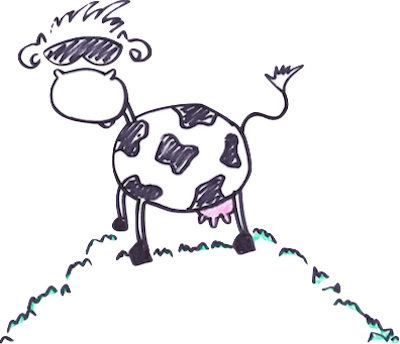
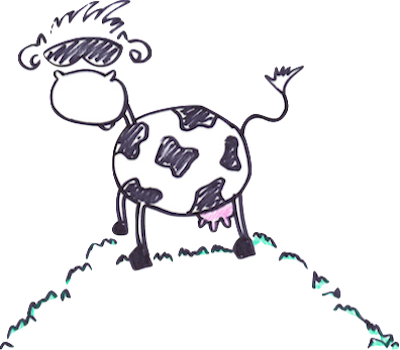
dritte Wiesenabstufung implementiert

Changed region(s): [[0.45, 0.6105, 0.48, 0.6395], [0.39, 0.5814, 0.42, 0.6105]]

diff --git a/src/Kuhlclicker.java b/src/Kuhlclicker.java
@@ -152,10 +152,11 @@ public class Kuhlclicker extends JFrame {
         // Komponenten im Upgrade Bereich
         wieseLabel.setIcon(new ImageIcon("resources/WieseIcon.png"));
         partyhutLabel.setIcon(new ImageIcon("resources/Partyhut.png"));
+
         upgradePanel.setBackground(Color.decode(colorBluePanel));
         upgradePanel.add(wieseUpgradeButton);
         upgradePanel.add(wieseLabel);
-        upgradePanel.add(Box.createRigidArea(new Dimension(0, 60)));
+        upgradePanel.add(Box.createRigidArea(new Dimension(0, 30)));
         upgradePanel.add(partyhutUpgradeButton);
         upgradePanel.add(partyhutLabel);
         upgradePanel.add(Box.createRigidArea(new Dimension(0, 30)));
@@ -174,6 +175,7 @@ public class Kuhlclicker extends JFrame {
         statsPanel.add(incomeLabel);
         statsPanel.add(statMps);
         statsPanel.add(statMpc);
+
 
         // Komponenten im Optionentab (wenn zeit dann extra methode statt DRY)
         optionPanel.setBackground(Color.decode(colorBluePanel));
@@ -266,7 +268,13 @@ public class Kuhlclicker extends JFrame {
     		milch =  (milch - (int)wieseUpgradeKosten);
 
             // Anpassen des Kuhbildes
-            kuhLabel.setIcon(new ImageIcon("resources/KuhWieseUpgrade.png"));
+            if (levelWiese == 1){
+                kuhLabel.setIcon(new ImageIcon("resources/KuhWieseUpgrade.png"));
+            }
+            else if (levelWiese >= 2){
+                kuhLabel.setIcon(new ImageIcon("resources/KuhWieseUpgradeFinal.png"));
+            }
+
 
 
     		refreshMilchAnzeige();
